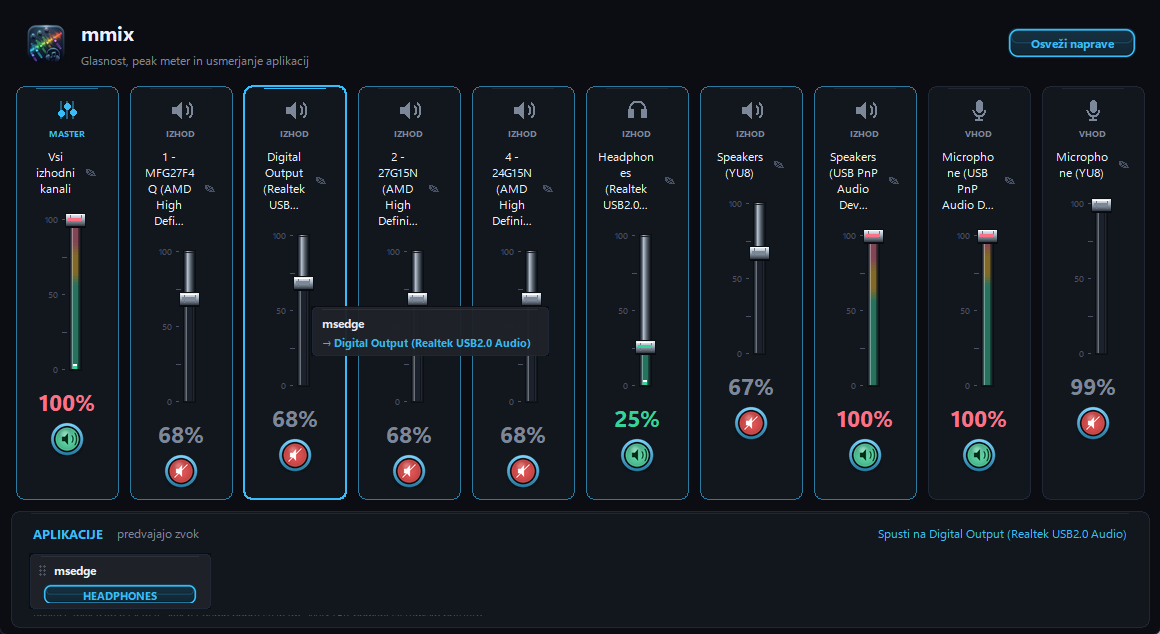
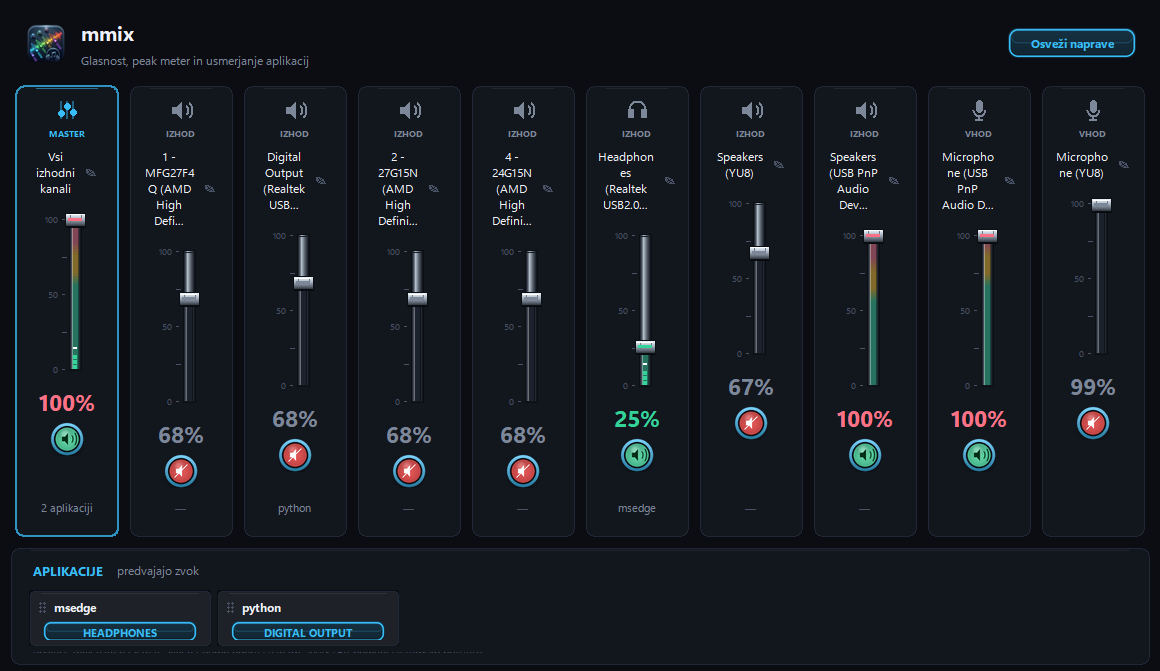
Prikazi predvajajoce aplikacije pod drsniki (v1.3.0)

diff --git a/mmix.py b/mmix.py
@@ -492,9 +492,15 @@ def list_audio_apps(router, skip_pids=()):
             display = key or name
             item = apps.setdefault(key, {'name': display, 'pids': [],
                                          'default_id': default_id,
-                                         'route': None})
+                                         'route': None, 'devices': []})
             if pid not in item['pids']:
                 item['pids'].append(pid)
+            try:
+                dev_id = dev.id
+            except Exception:
+                dev_id = None
+            if dev_id and dev_id not in item['devices']:
+                item['devices'].append(dev_id)
 
     for item in apps.values():
         for pid in item['pids']:
@@ -1013,10 +1019,11 @@ class AppChip:
 class AppsPanel:
     """Plošča pod napravami: katere aplikacije predvajajo zvok in kam."""
 
-    def __init__(self, parent, router, devices, columns=()):
+    def __init__(self, parent, router, devices, columns=(), on_apps=None):
         self.router = router
         self.devices = list(devices)
         self._columns = list(columns)
+        self.on_apps = on_apps
         self._apps = {}
         self._sig = None
         self.chips = []
@@ -1098,7 +1105,8 @@ class AppsPanel:
                 return
         else:
             self._empty = 0
-        sig = tuple((key, tuple(app['pids']), app.get('route'))
+        sig = tuple((key, tuple(app['pids']), app.get('route'),
+                     tuple(app.get('devices', ())))
                     for key, app in apps.items())
         if not force and sig == self._sig:
             return
@@ -1125,6 +1133,8 @@ class AppsPanel:
         if self._width:
             height = 38 + rows * (CHIP_H + 6) + 18
             self.shell.apply(self._width, height)
+        if self.on_apps is not None:
+            self.on_apps(list(apps.values()))
 
     def set_status(self, text, color=SUBTEXT):
         self.status.config(text=text, fg=color)
@@ -1379,6 +1389,38 @@ def short_menu_name(name):
     return name[:37].rstrip() + '\u2026'
 
 
+def short_app_name(name, limit=12):
+    name = (name or '').strip()
+    if len(name) <= limit:
+        return name
+    return name[:limit - 1].rstrip() + '\u2026'
+
+
+def apps_label_text(names):
+    """Največ dve vrstici: prva aplikacija, druga z morebitnim '+N'."""
+    names = [n for n in names if n]
+    if not names:
+        return '\u2014'
+    first = short_app_name(names[0], 12)
+    if len(names) == 1:
+        return first
+    if len(names) == 2:
+        return first + '\n' + short_app_name(names[1], 12)
+    suffix = f' +{len(names) - 1}'
+    second = short_app_name(names[1], 12 - len(suffix)) + suffix
+    return first + '\n' + second
+
+
+def app_count_text(count):
+    if count == 1:
+        return '1 aplikacija'
+    if count == 2:
+        return '2 aplikaciji'
+    if count in (3, 4):
+        return f'{count} aplikacije'
+    return f'{count} aplikacij'
+
+
 def draw_device_icon(c, kind, color):
     """Vektorska ikona naprave (26x26 px), narisana s platnom."""
     c.delete('all')
@@ -1445,6 +1487,7 @@ class DeviceColumn(tk.Frame):
         self.muted = bool(vol.GetMute())
         self.level = 0.0
         self.hold = 0.0
+        self._apps_text = None
         tint = ACCENT if master else SUBTEXT
 
         self.icon = tk.Canvas(self, width=26, height=26, bg=CARD, highlightthickness=0)
@@ -1482,8 +1525,27 @@ class DeviceColumn(tk.Frame):
         self.pct.pack()
         self.mute_btn = MuteButton(self, self.on_mute, active=not self.muted)
         self.mute_btn.pack(pady=(2, 2))
+        # Kaj trenutno predvaja na tej napravi (največ dve vrstici).
+        self.apps_lbl = tk.Label(self, text='', bg=CARD, fg=SUBTEXT2, font=F(8),
+                                 justify='center', wraplength=84, height=2)
+        self.apps_lbl.pack(side='bottom', pady=(0, 1))
+        self.set_apps([])
         self.style_mute()
         self.draw()
+
+    def set_apps(self, names):
+        """Prikaže imena aplikacij, ki predvajajo na tej napravi."""
+        if self.direction != 'Izhod':
+            text = ''
+        elif self.is_master:
+            text = app_count_text(len(names)) if names else '\u2014'
+        else:
+            text = apps_label_text(names)
+        fg = SUBTEXT if text and text != '\u2014' else SUBTEXT2
+        if text == self._apps_text:
+            return
+        self._apps_text = text
+        self.apps_lbl.config(text=text, fg=fg)
 
     def y_of(self, pct):
         return self.TRACK_TOP + self.TRACK_H * (1 - pct / 100)
@@ -1981,7 +2043,8 @@ class App(tk.Tk):
         devices = self.output_devices()
         if self.apps_panel is None:
             self.apps_panel = AppsPanel(self.content, self.router, devices,
-                                        self.columns)
+                                        self.columns,
+                                        on_apps=self.update_channel_apps)
             self.apps_panel.shell.pack(pady=(6, 0))
         else:
             self.apps_panel.set_devices(devices)
@@ -2002,6 +2065,21 @@ class App(tk.Tk):
         for c in self.columns:
             if c is not source and not c.dragging:
                 c.refresh()
+
+    def update_channel_apps(self, apps):
+        """Pod vsak drsnik izpiše, katere aplikacije predvajajo na tej napravi."""
+        groups = {}
+        for app in apps:
+            for dev_id in app.get('devices', ()):
+                groups.setdefault(dev_id, set()).add(app['name'])
+        total = sorted({app['name'] for app in apps}, key=str.lower)
+        for col in self.columns:
+            if col.direction != 'Izhod':
+                col.set_apps([])
+            elif col.is_master:
+                col.set_apps(total)
+            else:
+                col.set_apps(sorted(groups.get(col.key, ()), key=str.lower))
 
     def poll(self):
         for c in self.columns:

diff --git a/README.md b/README.md
@@ -1,8 +1,9 @@
 # mmix
 
 Sodoben temen mešalnik glasnosti za **vse zvočne naprave v Windows** – z master
-kanalom, LED peak meterjem, preimenovanjem kanalov, kovinskimi drsniki in
-**usmerjanjem posameznih aplikacij na izbrano izhodno napravo**.
+kanalom, LED peak meterjem, preimenovanjem kanalov, kovinskimi drsniki,
+**usmerjanjem posameznih aplikacij na izbrano izhodno napravo** in pregledom,
+kaj predvaja na vsaki napravi.
 
 ![mmix](docs/screenshot.png)
 
@@ -40,6 +41,7 @@ ohranijo).
 | 🔇 **Okrogli gumbi za utišanje** | Zeleno jedro = zvok aktiven, rdeče = utišano; moder obroč v barvi `MASTER`. |
 | ✏ **Preimenovanje** | Dvojni klik na ime (ali svinčnik) odpre vnos; ime se shrani trajno. |
 | 🎧 **Aplikacije** | Spodnja plošča sproti prikazuje programe, ki trenutno predvajajo zvok; aplikacijo preprosto povlečeš na želen kanal. |
+| 🏷 **Kaj predvaja** | Pod vsakim izhodnim drsnikom so imena aplikacij, ki na tej napravi dejansko predvajajo zvok; MASTER prikaže skupno število. |
 | 🔄 **Osveži naprave** | Znova prebere seznam naprav (npr. po priklopu USB slušalk) – brez podvajanja kartic. |
 | 🎨 **Temna tema** | Lasten videz: zaobljene kartice, kovinski pravokotni drsniki, mehki prelivi, anti-aliasing prek Pillow. |
 
@@ -51,6 +53,8 @@ ohranijo).
 - **Ime** – dvojni klik za preimenovanje, `Enter` potrdi, `Esc` prekliče.
 - **Aplikacija** – povleci jo s plošče na kanal (glej spodaj); klik na gumb
   odpre seznam naprav.
+- **Imena pod drsniki** – sproti kažejo, katere aplikacije predvajajo na
+  posamezni napravi.
 
 ### Usmerjanje aplikacij
 
@@ -74,6 +78,13 @@ napravo z dolgim imenom.
 Spust na **MASTER** (»Vsi izhodni kanali«) pomeni **sistemsko privzeto** – isto
 kot izbira `Sistemsko privzeto` na seznamu. Izbira se shrani v Windows in velja
 tudi po ponovnem zagonu aplikacije.
+
+Pod vsakim izhodnim drsnikom so izpisana imena aplikacij, ki na tej napravi
+**dejansko** predvajajo zvok (največ dve imeni, preostala so prikazana kot
+`+N`). Seznam se osvežuje samodejno; MASTER prikaže skupno število aplikacij.
+Če se gumb v vrstici aplikacije in napis pod drsnikom razlikujeta, aplikacija
+še vedno predvaja na stari napravi – premik bo veljal ob naslednjem zvočnem
+toku.
 
 > **Namig:** Windows izbiro uporabi, ko aplikacija odpre **nov zvočni tok**.
 > V praksi to pomeni, da je treba predvajanje pogosto ustaviti in znova zagnati
@@ -161,7 +172,9 @@ docs/               # posnetki za README
 - Usmerjanje uporablja isti (nedokumentirani) sistemski mehanizem kot
   *Nastavitve → Sistem → Zvok → Glasnost mešalnika*. Nekatere aplikacije
   premik upoštevajo šele ob **naslednjem predvajanju**, redke starejše
-  (`winmm`, PortAudio) pa ostanejo na sistemski napravi.
+  (`winmm`, PortAudio) pa ostanejo na sistemski napravi. Imena pod drsniki
+  zato kažejo **dejansko** napravo predvajanja, ki se lahko do naslednjega
+  toka razlikuje od izbire na gumbu.
 - Peak meter je lahko na nekaterih gonilnikih počasnejši ali manj natančen.
 - Brez podpisa kode: Windows SmartScreen lahko ob prvem zagonu pokaže
   opozorilo »Unknown publisher«.
